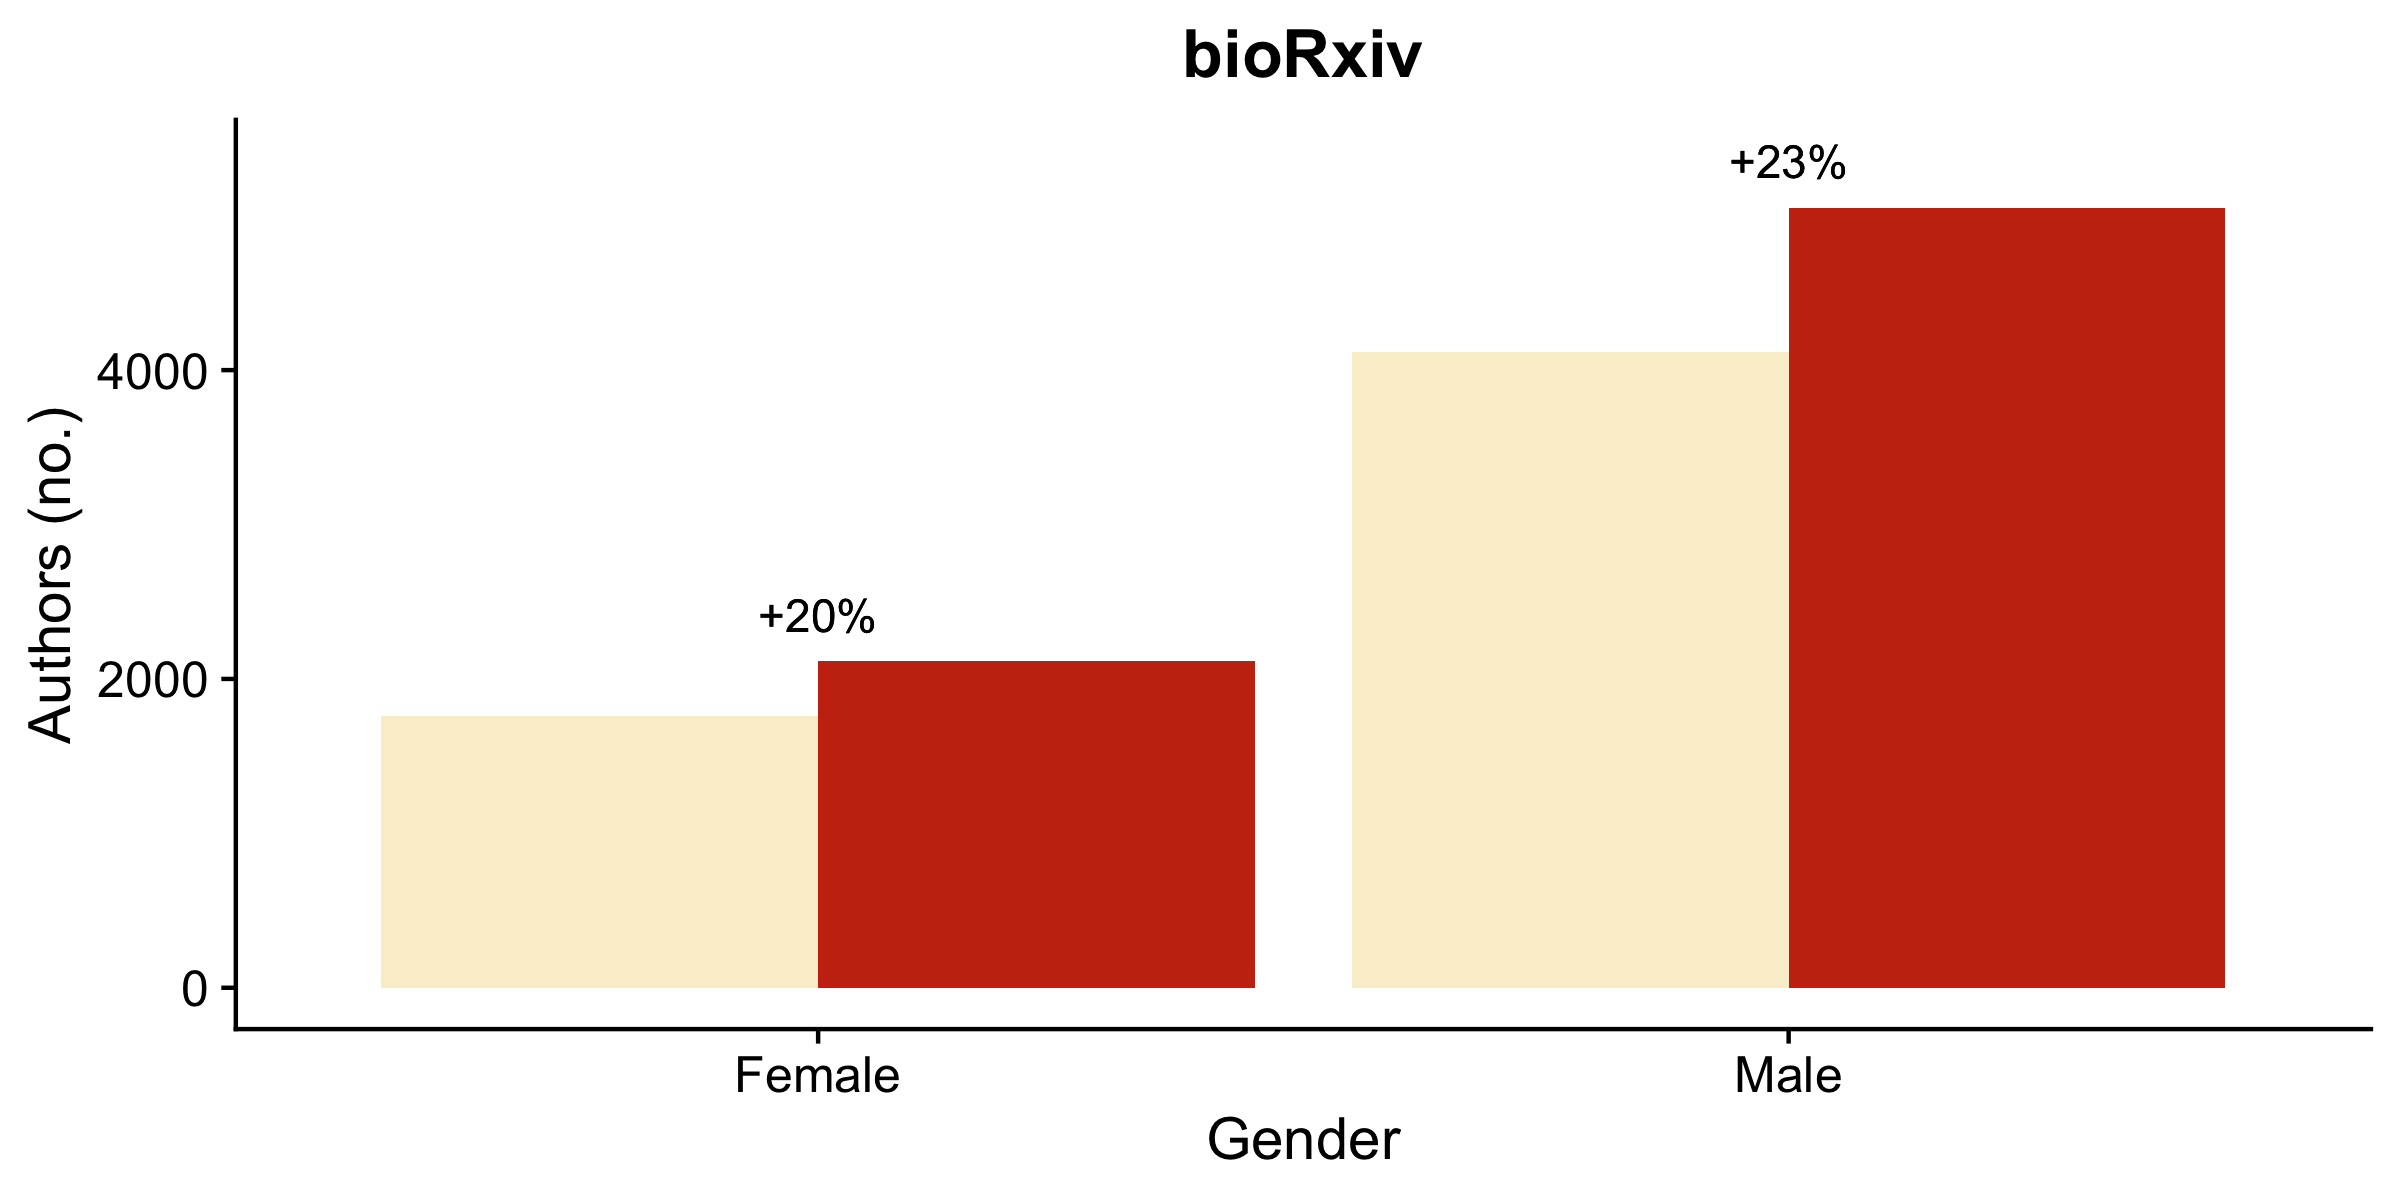
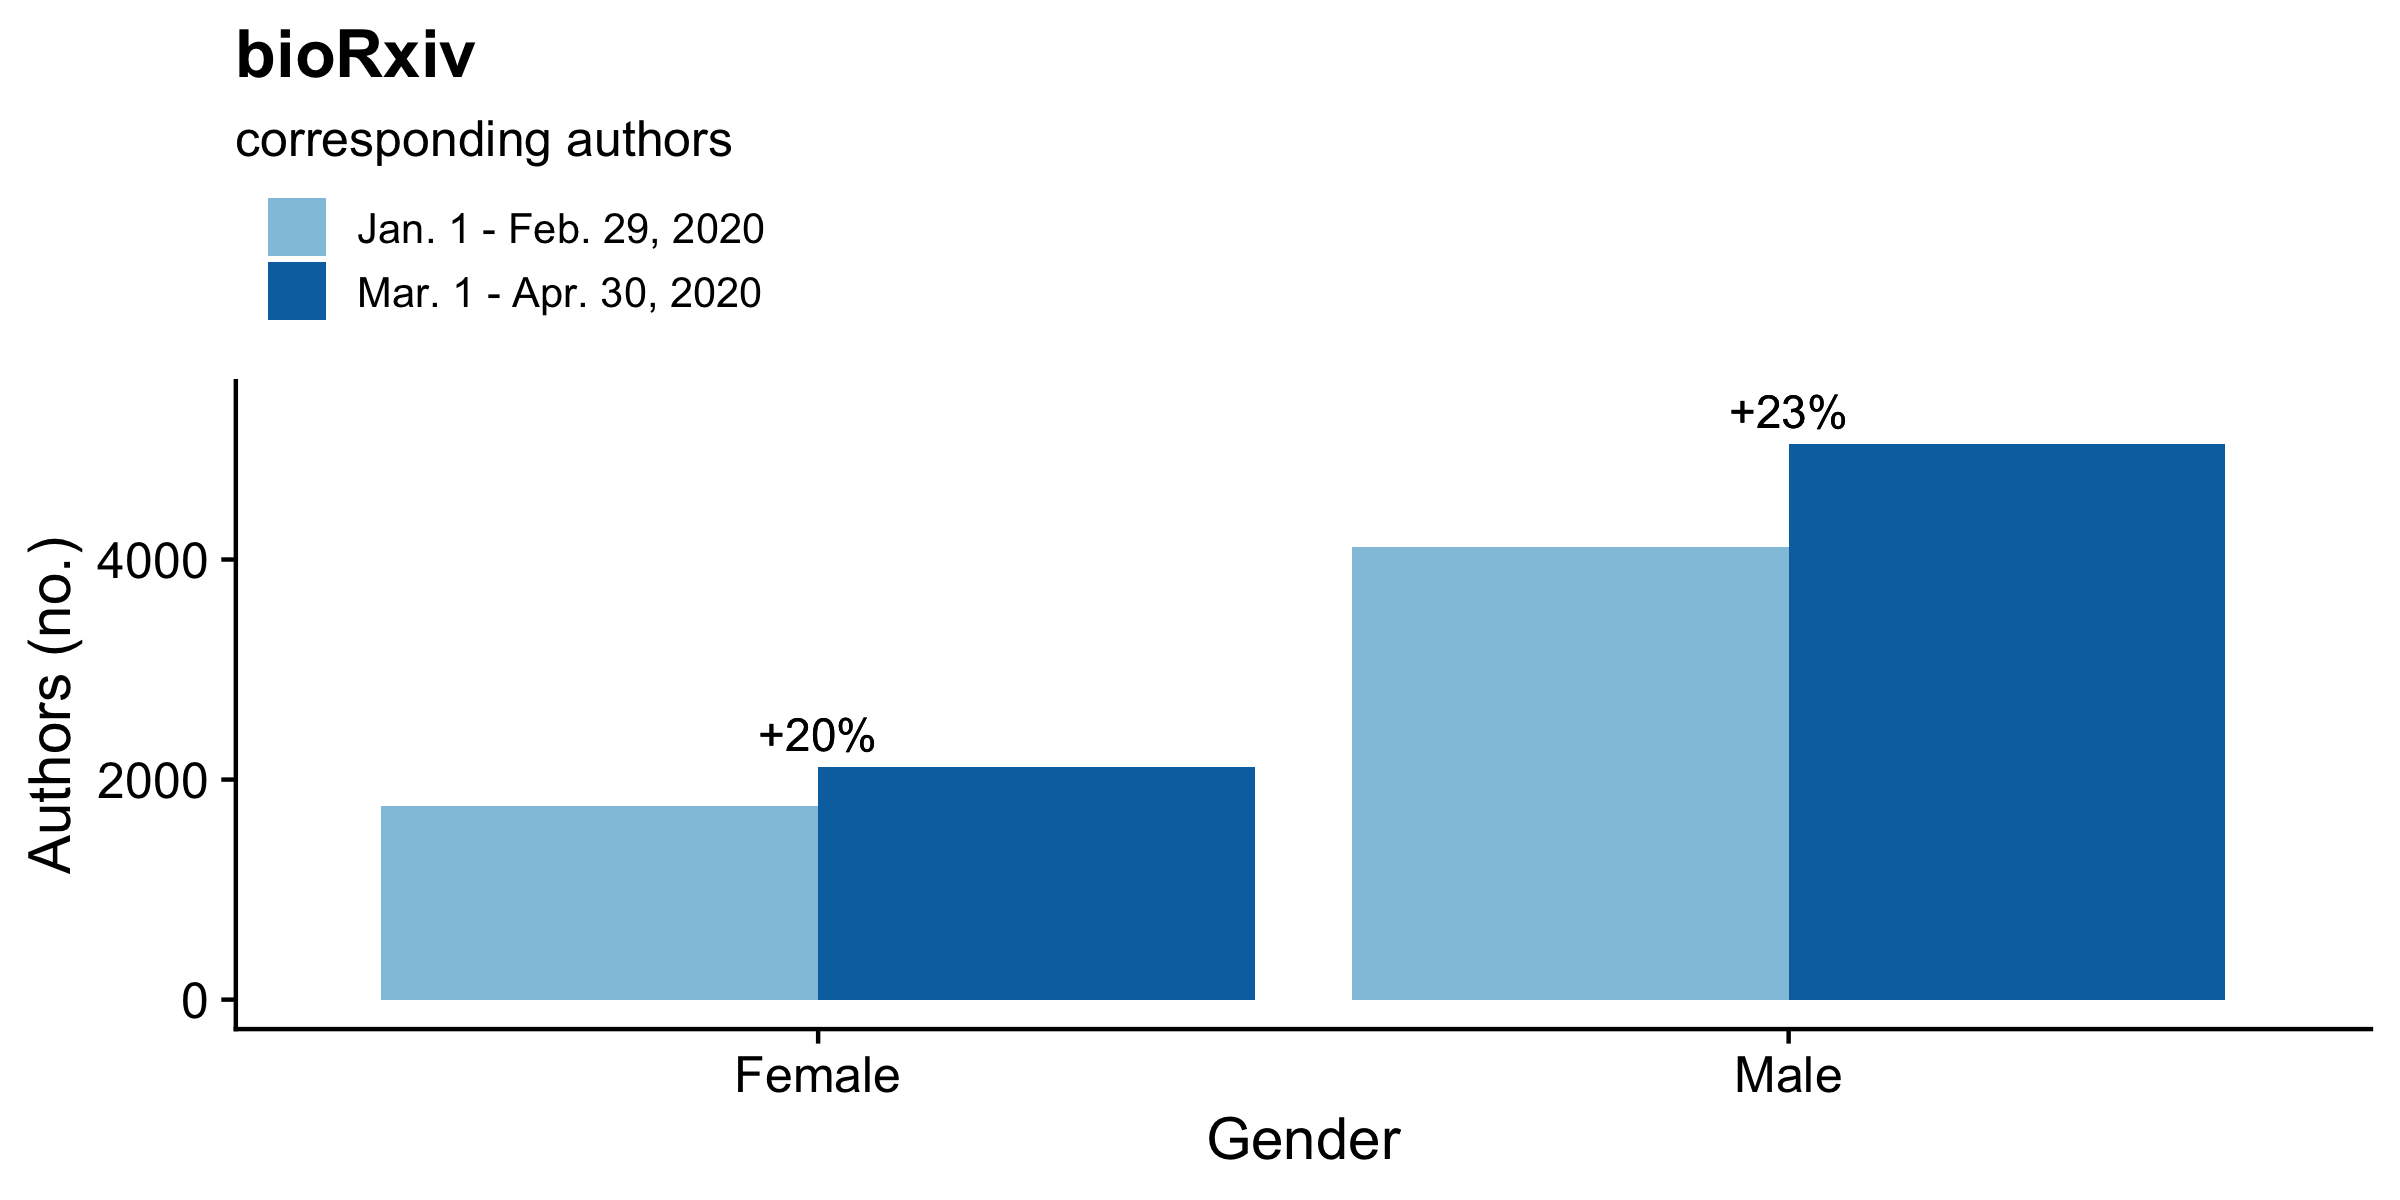
Update figures

diff --git a/README.md b/README.md
@@ -30,7 +30,6 @@ library(aRxiv)
 library(rbiorxiv)
 library(lubridate)
 library(anytime)
-library(wesanderson)
 ```
 
 ## arXiv submissions
@@ -182,9 +181,13 @@ all.long <- gather(all, Gender, number, Female:Male) #Make wide data long
 all.t <- as.data.frame(t(all[,-1])) #Transpose
 colnames(all.t) <- c("2019", "2020") #Fix column names
 all.t$per.dif.1920 <- ((all.t$`2020`-all.t$`2019`)/(all.t$`2019`))*100 #Calculate percent change, 2020 over 2019
+yr.labels = c("Mar. 15 - Apr. 15, 2019", "Mar. 15 - Apr. 15, 2020") #Set legend labels
+colours1 = c("#f4a582","#ca0020") #Set colours
+colours2 = c("#92c5de", "#0571b0") 
+fontsize = 10
 
 #Make figure comparing 2020 to 2019
-p1 <- ggplot(data=all.long, aes(fill=as.factor(year), y=number, x=Gender))+geom_bar(position="dodge", stat="identity")+theme_cowplot()+xlab("Gender")+ylab("Authors (no.)")+labs(fill="Year")+scale_fill_manual(values = wes_palette("Royal1"), labels=c("Mar. 15 - Apr. 15, 2019", "Mar. 15 - Apr. 15, 2020"))+ggtitle("arXiv")+theme(legend.position = c(0.07, 0.94), legend.title = element_blank(), plot.title = element_text(hjust = 0.5))+ggplot2::annotate("text", x=c(1, 2),  y=c(8700,29200), label = paste0("+", round(all.t$per.dif.1920[1:2], 1), "%"))
+p1 <- ggplot(data=all.long, aes(fill=as.factor(year), y=number, x=Gender))+geom_bar(position="dodge", stat="identity")+theme_cowplot()+xlab("Gender")+ylab("Authors (no.)")+labs(fill="Year")+scale_fill_manual(values=colours1, labels=yr.labels)+theme(legend.position = "top", legend.justification="left", legend.title = element_blank(), legend.text = element_text(size=fontsize))+ggplot2::annotate("text", x=c(1, 2),  y=c(9000,29000), label = paste0("+", round(all.t$per.dif.1920[1:2], 1), "%"))+labs(title="arXiv", subtitle="all authors")+guides(fill=guide_legend(nrow=2))
 p1 
 ```
 
@@ -226,7 +229,7 @@ colnames(sole.authors.t) <- c("2019", "2020") #Fix column names
 sole.authors.t$per.dif.1920 <- ((sole.authors.t$`2020`-sole.authors.t$`2019`)/(sole.authors.t$`2019`))*100 #Calculate percent change, 2020 over 2019
 
 #Make figure for single-authored preprints
-p2 <- ggplot(data=sole.long, aes(fill=as.factor(year), y=number, x=Gender))+geom_bar(position="dodge", stat="identity")+theme_cowplot()+xlab("Gender")+ylab("Authors (no.)")+labs(fill="Year")+scale_fill_manual(values = wes_palette("Royal1"), labels=c("Mar/Apr 2019", "Mar/Apr 2020"))+ggtitle("arXiv\nsingle-author preprints")+theme(legend.position = c(0.1, 0.9), legend.title = element_blank(), plot.title = element_text(hjust = 0.5))+ggplot2::annotate("text", x=c(1, 2),  y=c(260,1350), label = paste0("+", round(sole.authors.t$per.dif.1920[1:2], 1), "%"))+theme(legend.position="none")
+p2 <- ggplot(data=sole.long, aes(fill=as.factor(year), y=number, x=Gender))+geom_bar(position="dodge", stat="identity")+theme_cowplot()+xlab("Gender")+ylab("Authors (no.)")+labs(fill="Year")+scale_fill_manual(values = colours1, labels=yr.labels)+theme(legend.position = "top", legend.justification="left", legend.title = element_blank())+ggplot2::annotate("text", x=c(1, 2),  y=c(270,1350), label = paste0("+", round(sole.authors.t$per.dif.1920[1:2], 1), "%"))+theme(legend.text=element_text(size=fontsize))+labs(title="arXiv", subtitle = "sole authors")+guides(fill=guide_legend(nrow=2))
 p2
 ```
 
@@ -275,9 +278,10 @@ arxiv.long$per <- c(arxiv.t$per[1],arxiv.t$per[1],arxiv.t$per[2],arxiv.t$per[2])
 bump = 3000 #Set for figure annotatin
 arxiv.long$y <- c((arxiv.long[2,3]+bump), (arxiv.long[2,3]+bump), (arxiv.long[4,3]+bump), (arxiv.long[4,3]+bump)) #Y coordinates for figure text annotation
 arxiv.long$x <- c(1,1,2,2) #X coordinates for figure text annotation
+m.labels=c("Jan. 1 - Feb. 29, 2020", "Mar. 1 - Apr. 30, 2020")
 
 #Make figure
-p3 <- ggplot(data=arxiv.long, aes(fill=COVID, y=n, x=gender))+geom_bar(position="dodge", stat="identity")+theme_cowplot()+ggtitle("arXiv")+xlab("Gender")+ylab("Authors (no.)")+labs(fill="Gender")+theme(legend.position=c(0.07, 0.93), legend.title=element_blank(), plot.title = element_text(hjust = 0.5))+geom_text(aes(x=x,y=y, label=paste0("+", round(per), "%")))+scale_fill_manual(values = wes_palette("Royal1")[3:2], labels=c("Jan. 1 - Feb. 29, 2020", "Mar. 1 - Apr. 30, 2020"))
+p3 <- ggplot(data=arxiv.long, aes(fill=COVID, y=n, x=gender))+geom_bar(position="dodge", stat="identity")+theme_cowplot()+ggtitle("arXiv")+xlab("Gender")+ylab("Authors (no.)")+labs(fill="Gender")+theme(legend.position="top", legend.title=element_blank(), legend.text=element_text(size=fontsize), legend.justification="left")+geom_text(aes(x=x,y=y, label=paste0("+", round(per), "%")))+scale_fill_manual(values = colours2, labels=m.labels)+labs(title="arXiv", subtitle="all authors")+guides(fill=guide_legend(nrow=2))
 p3
 ```
 
@@ -400,14 +404,14 @@ biorxiv.yr.wide <- spread(biorxiv.yr, year, n) #Make long data wide
 biorxiv.yr.wide$per.dif.1920 <- ((biorxiv.yr.wide$`2020`-biorxiv.yr.wide$`2019`)/biorxiv.yr.wide$`2019`)*100 #Calculate percent change, 2019 to 2020
 
 #Make figure for 2019 versus 2020 comparison
-p4 <- ggplot(data=biorxiv.yr, aes(fill=year, y=n, x=as.factor(gender)))+geom_bar(position="dodge",stat="identity")+theme_cowplot()+xlab("Gender")+ylab("Authors (no.)")+labs(fill="Year")+scale_fill_manual(values = wes_palette("Royal1"))+ggtitle("bioRxiv")+theme(plot.title = element_text(hjust = 0.5))+ggplot2::annotate("text", x=c(1,2),  y=c(1150,2700), label = paste0("+", round(biorxiv.yr.wide$per.dif.1920), "%"))+theme(legend.position="none")
+p4 <- ggplot(data=biorxiv.yr, aes(fill=year, y=n, x=as.factor(gender)))+geom_bar(position="dodge",stat="identity")+theme_cowplot()+xlab("Gender")+ylab("Authors (no.)")+labs(fill="Year")+labs(fill="Date range")+scale_fill_manual(values = colours1, labels=yr.labels)+ggtitle("bioRxiv")+ggplot2::annotate("text", x=c(1,2),  y=c(1130,2680), label = paste0("+", round(biorxiv.yr.wide$per.dif.1920), "%"))+theme(legend.position="top", legend.justification="left", legend.title=element_blank(), legend.text=element_text(size=fontsize))+guides(fill = guide_legend(nrow=2))+labs(title="bioRxiv", subtitle="corresponding authors")
 p4
 ```
 
 ![](README_files/figure-gfm/Visualize%20bioRxiv%202019%20versus%202020%20data-1.png)<!-- -->
 
 ``` r
-p5 <- plot_grid(p1, p2, p4, nrow=1) #Combine into part of a single figure
+p5 <- plot_grid(p1, p2, p4, nrow=1, align='hv', axis='lb') #Combine into part of a single figure
 ```
 
 The same data in tabular
@@ -447,17 +451,18 @@ biorxiv$per <- c(biorxiv[3,3]/biorxiv[1,3], biorxiv[4,3]/biorxiv[2,3],biorxiv[3,
 biorxiv$per <- biorxiv$per*100-100 #Make it actually a percent
 bump = 300 #For figure annotation
 biorxiv$y <- c((biorxiv[3,3]+bump), (biorxiv[4,3]+bump), (biorxiv[3,3]+bump), (biorxiv[4,3]+bump)) #y coordinates for figure text
-biorxiv$x <- c(1,2,1,2) #x coodinates for figure textt
+biorxiv$x <- c(1,2,1,2) #x coodinates for figure text
 
 #Make figure
-p6 <- ggplot(data=biorxiv, aes(fill=COVID, y=n, x=gender))+geom_bar(position="dodge", stat="identity")+theme_cowplot()+ggtitle("bioRxiv")+xlab("Gender")+ylab("Authors (no.)")+scale_fill_manual(values = wes_palette("Royal1")[3:2])+theme(legend.title=element_blank(), legend.position="none", plot.title = element_text(hjust = 0.5))+geom_text(aes(x=x,y=y, label=paste0("+", round(per), "%")))
+p6 <- ggplot(data=biorxiv, aes(fill=COVID, y=n, x=gender))+geom_bar(position="dodge", stat="identity")+theme_cowplot()+ggtitle("bioRxiv")+xlab("Gender")+ylab("Authors (no.)")+labs(fill="Date range")+scale_fill_manual(values = colours2, labels=m.labels)+theme(legend.position="top", legend.justification="left", legend.title=element_blank(), legend.text=element_text(size=fontsize))+geom_text(aes(x=x,y=y, label=paste0("+", round(per), "%")))+labs(title="bioRxiv", subtitle="corresponding authors")+guides(fill=guide_legend(nrow=2))
 p6
 ```
 
 ![](README_files/figure-gfm/Visualize%20bioRxiv%202020%20data-1.png)<!-- -->
 
 ``` r
-p7 <- plot_grid(p3, p6, nrow=1) #Combine into part of a single figure
+p7 <- plot_grid(p3, p6, nrow=1, align='hv', axis='lb') #Combine into part of a single figure
+p7 <- plot_grid(p7, NULL, nrow=1, rel_widths=c(2,1))
 ```
 
 The same data, but in tabular form:
@@ -478,14 +483,14 @@ kable(biorxiv[,1:3])
 Finally, I put it all together in a single figure.
 
 ``` r
-p8 <- plot_grid(p5, p7, nrow=2)
+p8 <- plot_grid(p5, p7, nrow=2, align = 'v', axis='l')
 p8 #Omnibus figure
 ```
 
 ![](README_files/figure-gfm/Combine%20visualizations-1.png)<!-- -->
 
 ``` r
-save_plot("figure.png", p8, base_height=12, base_width=16)
+save_plot("figure.png", p8, base_height=8, base_width=8)
 ```
 
 Throughout this analysis, effects are likely conservative because many
